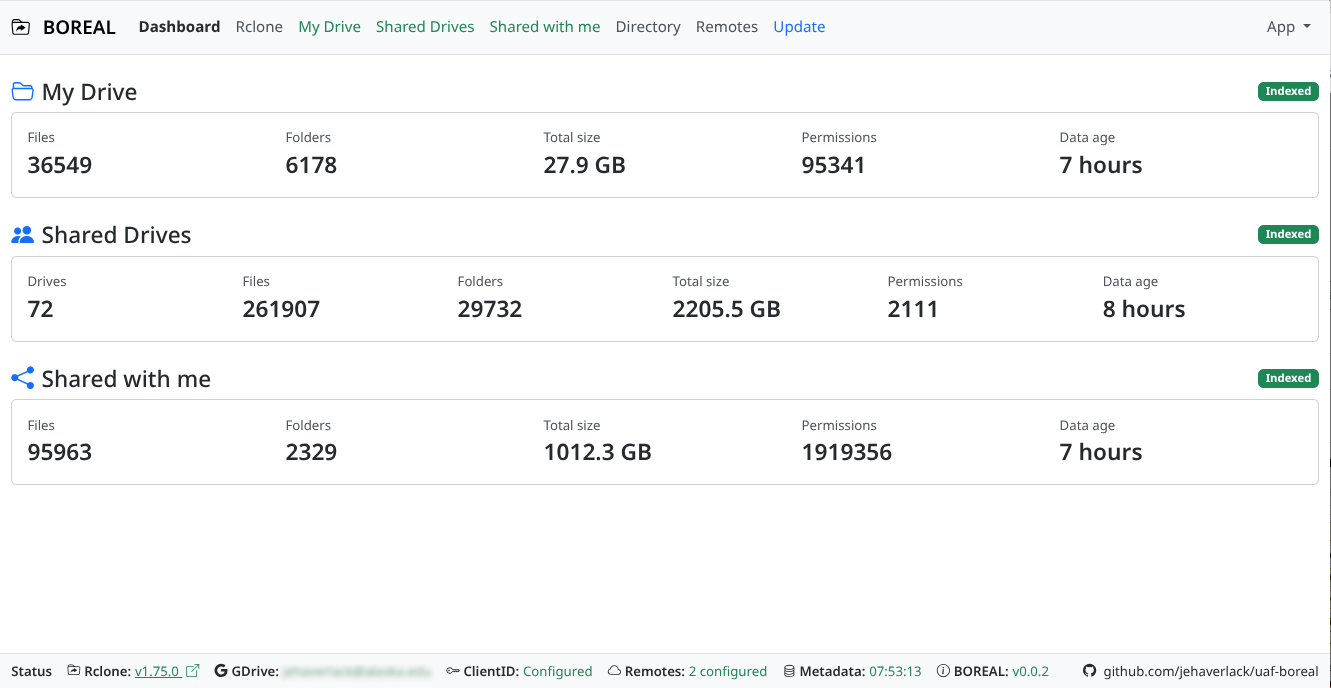
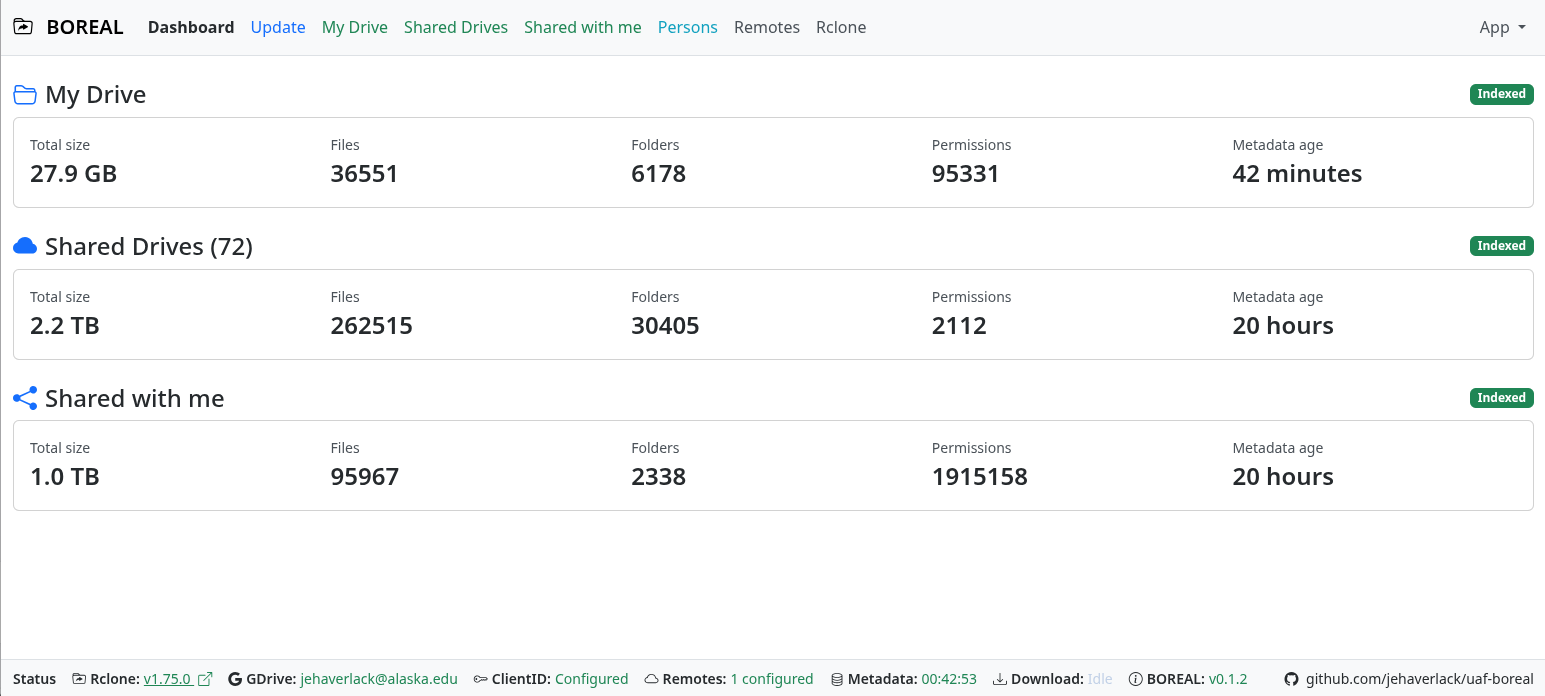
Fixed Close button, added link to Persons Sheet

diff --git a/tmpl/html/settings.html b/tmpl/html/settings.html
@@ -10,7 +10,7 @@
             <div>
                 <h1 class="h3 mb-1">Settings</h1>
                 <p class="text-body-secondary mb-0">
-                    Configure metadata inventory behavior.
+                    Configure optional BOREAL integrations.
                 </p>
             </div>
         </div>
@@ -38,34 +38,6 @@
         <form method="post" action="/settings">
 
             <div class="card mb-3">
-
-                <div class="card-header fw-semibold">Metadata updates</div>
-
-                <div class="card-body">
-
-                    <div class="alert alert-primary mb-3" role="note"><i class="bi bi-hand-index-thumb me-2"></i>Metadata updates are manual. Use the blue <strong>Update</strong> item in the navigation bar when you are ready to query Google Drive.</div>
-
-                    <input type="hidden" name="refresh_interval_hours" value="{{ settings.refresh_interval_hours }}">
-                    <input type="hidden" name="full_reconciliation_days" value="{{ settings.full_reconciliation_days }}">
-
-                    <div class="form-check">
-                        <input
-                            class="form-check-input"
-                            type="checkbox"
-                            id="permissionScanning"
-                            name="permission_scanning"
-                            {% if settings.permission_scanning %}checked{% endif %}
-                        >
-                        <label class="form-check-label" for="permissionScanning">
-                            Include sharing permissions in metadata updates
-                        </label>
-                    </div>
-
-                </div>
-
-            </div>
-
-            <div class="card mb-3">
                 <div class="card-header fw-semibold">Linked persons spreadsheet</div>
                 <div class="card-body">
                     <label class="form-label" for="directorySheetUrl">Google Sheets URL</label>
@@ -75,6 +47,15 @@
                     <div class="form-text text-body">
                         BOREAL uses the authenticated read-only Drive account. That account must be able to view and export the selected worksheet.
                     </div>
+                    {% if settings.directory_sheet_enabled && settings.directory_sheet_url.len() > 0 %}
+                    <div class="mt-3">
+                        <a class="btn btn-sm btn-outline-primary"
+                           href="{{ settings.directory_sheet_url }}"
+                           target="_blank" rel="noopener noreferrer">
+                            <i class="bi bi-file-earmark-spreadsheet me-1"></i>Open Persons Sheet
+                        </a>
+                    </div>
+                    {% endif %}
                     <div class="alert alert-light border small mt-3 mb-0" role="note">
                         The worksheet must contain an <code>email</code> column. Supported identity types are
                         <code>person</code>, <code>group</code>, <code>service_acct</code>,

diff --git a/tmpl/html/directory.html b/tmpl/html/directory.html
@@ -9,7 +9,6 @@
     </div>
     <div class="d-flex flex-wrap gap-2 align-items-center">
     <a class="btn btn-sm btn-outline-primary text-nowrap" href="/directory/new"><i class="bi bi-person-plus me-1"></i>Add entry</a>
-    <a class="btn btn-sm btn-outline-secondary text-nowrap" href="/directory/template.csv" download><i class="bi bi-download me-1"></i>Download CSV template</a>
     <form id="directory-import-form" method="post" action="/directory/import/csv" enctype="multipart/form-data" class="d-flex gap-2 align-items-center">
         <label class="visually-hidden" for="directory-csv">Persons CSV</label>
         <input class="form-control form-control-sm" id="directory-csv" name="directory_csv" type="file" accept=".csv,text/csv" required>
@@ -28,6 +27,9 @@
 <div class="alert alert-light border small" role="note">
     Required column: <code>email</code>. Optional columns: <code>name</code>, <code>type</code>,
     <code>status</code>, <code>departure_date</code>, <code>organization</code>, and <code>notes</code>.
+    <div class="mt-2">
+        <a class="btn btn-sm btn-outline-secondary text-nowrap" href="/directory/template.csv" download><i class="bi bi-download me-1"></i>Download CSV template</a>
+    </div>
 </div>
 
 <div class="row g-3 mb-4">

diff --git a/tmpl/html/base.html b/tmpl/html/base.html
@@ -726,6 +726,13 @@
 
             if (closeTabButton) {
                 closeTabButton.addEventListener("click", () => {
+                    // Browsers only permit script-opened tabs to close
+                    // themselves. Try the standards-based call first while
+                    // this user gesture is still active.
+                    window.close();
+
+                    // Compatibility fallback for browsers that allow a tab
+                    // to adopt itself as its opener before closing.
                     try {
                         window.opener = window;
                     } catch (_error) {
@@ -734,7 +741,6 @@
 
                     const currentTab = window.open("", "_self");
                     currentTab?.close();
-                    window.close();
                 });
             }
 

diff --git a/src/web/routes.rs b/src/web/routes.rs
@@ -1,4 +1,4 @@
-use std::sync::Arc;
+use std::sync::{Arc, OnceLock};
 
 use askama::Template;
 
@@ -667,10 +667,6 @@ struct TagForm {
 
 #[derive(serde::Deserialize)]
 struct SettingsForm {
-    refresh_interval_hours: u32,
-    full_reconciliation_days: u32,
-    #[serde(default)]
-    permission_scanning: Option<String>,
     #[serde(default)]
     directory_sheet_url: String,
 }
@@ -1268,15 +1264,13 @@ async fn save_settings(
     Form(form): Form<SettingsForm>,
 ) -> Result<axum::response::Response, StatusCode> {
     let directory_sheet_url = form.directory_sheet_url.trim().to_string();
-    let inventory_settings = InventorySettings {
-        automatic_updates: false,
-        refresh_interval_hours: form.refresh_interval_hours,
-        full_reconciliation_days: form.full_reconciliation_days,
-        update_when_overdue_at_startup: false,
-        permission_scanning: form.permission_scanning.is_some(),
-        directory_sheet_enabled: !directory_sheet_url.is_empty(),
-        directory_sheet_url,
-    };
+    let database = state
+        .database()
+        .map_err(|_| StatusCode::SERVICE_UNAVAILABLE)?;
+    let mut inventory_settings =
+        settings::load(&database).map_err(|_| StatusCode::INTERNAL_SERVER_ERROR)?;
+    inventory_settings.directory_sheet_enabled = !directory_sheet_url.is_empty();
+    inventory_settings.directory_sheet_url = directory_sheet_url;
     if inventory_settings.directory_sheet_enabled {
         if let Err(error) =
             crate::rclone::identity::parse_google_sheet_url(&inventory_settings.directory_sheet_url)
@@ -1291,10 +1285,6 @@ async fn save_settings(
             .map(axum::response::IntoResponse::into_response);
         }
     }
-    let database = state
-        .database()
-        .map_err(|_| StatusCode::SERVICE_UNAVAILABLE)?;
-
     match settings::save(&database, &inventory_settings) {
         Ok(()) => Ok(Redirect::to("/settings?saved=true").into_response()),
 
@@ -1314,15 +1304,13 @@ async fn test_directory_sheet(
     Form(form): Form<SettingsForm>,
 ) -> Result<axum::response::Response, StatusCode> {
     let directory_sheet_url = form.directory_sheet_url.trim().to_string();
-    let inventory_settings = InventorySettings {
-        automatic_updates: false,
-        refresh_interval_hours: form.refresh_interval_hours,
-        full_reconciliation_days: form.full_reconciliation_days,
-        update_when_overdue_at_startup: false,
-        permission_scanning: form.permission_scanning.is_some(),
-        directory_sheet_enabled: !directory_sheet_url.is_empty(),
-        directory_sheet_url,
-    };
+    let database = state
+        .database()
+        .map_err(|_| StatusCode::SERVICE_UNAVAILABLE)?;
+    let mut inventory_settings =
+        settings::load(&database).map_err(|_| StatusCode::INTERNAL_SERVER_ERROR)?;
+    inventory_settings.directory_sheet_enabled = !directory_sheet_url.is_empty();
+    inventory_settings.directory_sheet_url = directory_sheet_url;
     if let Err(error) =
         crate::rclone::identity::parse_google_sheet_url(&inventory_settings.directory_sheet_url)
     {
@@ -1335,9 +1323,6 @@ async fn test_directory_sheet(
         )
         .map(axum::response::IntoResponse::into_response);
     }
-    let database = state
-        .database()
-        .map_err(|_| StatusCode::SERVICE_UNAVAILABLE)?;
     if let Err(error) = settings::save(&database, &inventory_settings) {
         return render_settings(
             &state,
@@ -3864,13 +3849,29 @@ fn build_status_items(
         StatusItem {
             icon: "bi-info-circle",
             label: "BOREAL",
-            value: format!("v{}", env!("CARGO_PKG_VERSION"),),
+            value: boreal_version_label(),
             value_class: "text-success",
             value_url: String::new(),
             spinner: false,
             age_timestamp: String::new(),
         },
     ]
+}
+
+fn boreal_version_label() -> String {
+    static MATURITY: OnceLock<String> = OnceLock::new();
+
+    let maturity = MATURITY.get_or_init(|| {
+        let metadata: serde_json::Value = serde_json::from_str(include_str!("../../metadata.json"))
+            .expect("embedded metadata.json should be valid JSON");
+        metadata
+            .pointer("/METADATA/maturity")
+            .and_then(serde_json::Value::as_str)
+            .expect("metadata.json should define METADATA.maturity")
+            .to_string()
+    });
+
+    format!("v{} ({maturity})", env!("CARGO_PKG_VERSION"))
 }
 
 fn build_download_status_item(download_state: &DownloadState) -> StatusItem {
@@ -3934,6 +3935,18 @@ mod tests {
         assert_eq!(format_bytes(2_208_400), "2.2 MB");
         assert_eq!(format_bytes(2_208), "2.2 KB");
         assert_eq!(format_bytes(208), "208 B");
+    }
+
+    #[test]
+    fn status_version_includes_release_maturity() {
+        let metadata: serde_json::Value =
+            serde_json::from_str(include_str!("../../metadata.json")).unwrap();
+        let maturity = metadata["METADATA"]["maturity"].as_str().unwrap();
+
+        assert_eq!(
+            boreal_version_label(),
+            format!("v{} ({maturity})", env!("CARGO_PKG_VERSION"))
+        );
     }
 
     #[test]

diff --git a/src/database/settings.rs b/src/database/settings.rs
@@ -8,7 +8,6 @@ pub struct InventorySettings {
     pub refresh_interval_hours: u32,
     pub full_reconciliation_days: u32,
     pub update_when_overdue_at_startup: bool,
-    pub permission_scanning: bool,
     pub directory_sheet_enabled: bool,
     pub directory_sheet_url: String,
 }
@@ -20,7 +19,6 @@ impl Default for InventorySettings {
             refresh_interval_hours: 24,
             full_reconciliation_days: 7,
             update_when_overdue_at_startup: false,
-            permission_scanning: true,
             directory_sheet_enabled: false,
             directory_sheet_url: String::new(),
         }
@@ -72,11 +70,6 @@ pub fn load(database: &Database) -> Result<InventorySettings, DatabaseError> {
             "inventory.update_when_overdue_at_startup",
             defaults.update_when_overdue_at_startup,
         )?,
-        permission_scanning: get_bool(
-            &connection,
-            "inventory.permission_scanning",
-            defaults.permission_scanning,
-        )?,
         directory_sheet_enabled: get_bool(
             &connection,
             "directory.sheet_enabled",
@@ -112,11 +105,6 @@ pub fn save(database: &Database, settings: &InventorySettings) -> Result<(), Dat
         &transaction,
         "inventory.update_when_overdue_at_startup",
         bool_value(settings.update_when_overdue_at_startup),
-    )?;
-    set(
-        &transaction,
-        "inventory.permission_scanning",
-        bool_value(settings.permission_scanning),
     )?;
     set(
         &transaction,

diff --git a/src/database/mod.rs b/src/database/mod.rs
@@ -283,7 +283,6 @@ mod tests {
             refresh_interval_hours: 12,
             full_reconciliation_days: 14,
             update_when_overdue_at_startup: false,
-            permission_scanning: true,
             directory_sheet_enabled: true,
             directory_sheet_url: "https://docs.google.com/spreadsheets/d/example/edit?gid=0"
                 .to_string(),
@@ -306,8 +305,6 @@ mod tests {
             actual.update_when_overdue_at_startup,
             expected.update_when_overdue_at_startup,
         );
-        assert_eq!(actual.permission_scanning, expected.permission_scanning,);
-
         assert!(
             !settings::metadata_setup_skipped(&database).expect("metadata setup state should load")
         );

diff --git a/src/app.rs b/src/app.rs
@@ -504,7 +504,7 @@ impl AppState {
                 return Err(error.to_string());
             }
         };
-        let permission_scanning = inventory_settings.permission_scanning;
+        let permission_scanning = true;
         let directory_sheet_url = (selection.directory_info
             && inventory_settings.directory_sheet_enabled)
             .then(|| inventory_settings.directory_sheet_url.trim().to_string())
